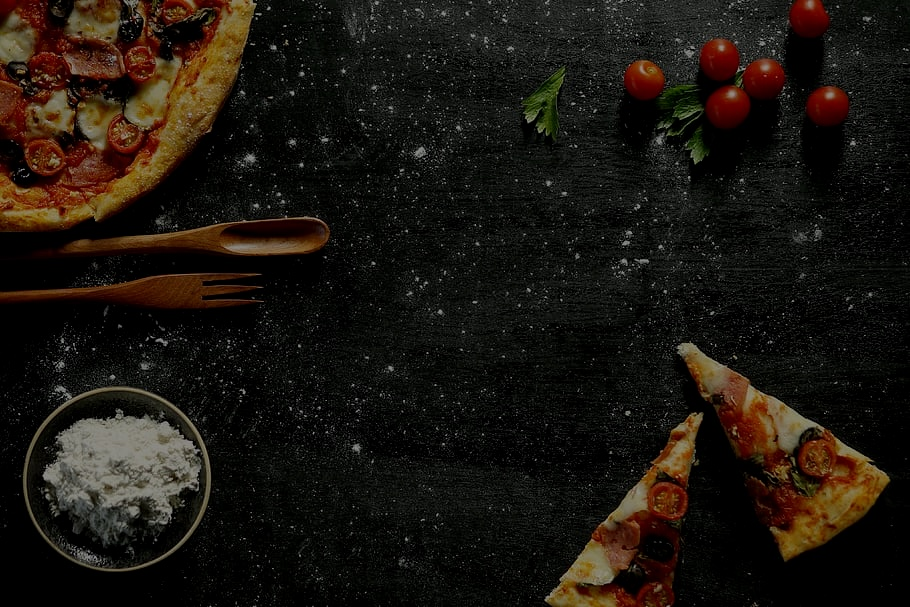
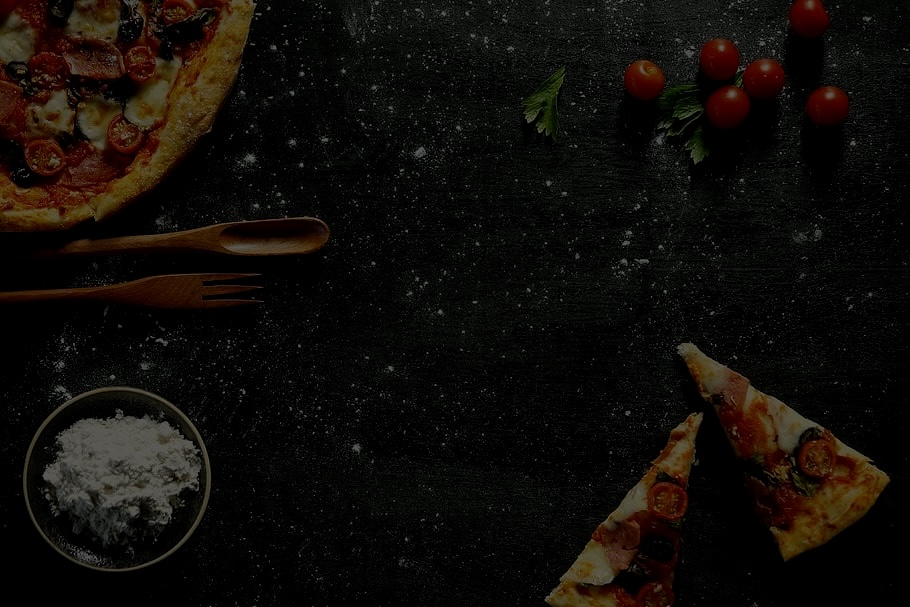
New backgrounds 2

diff --git a/src/routes/index.tsx b/src/routes/index.tsx
@@ -6,7 +6,8 @@ export const Route = createFileRoute('/')({
 
 function Home() {
   return (
-    <div className="bg-[url(/image/pizza.jpg)] bg-cover bg-no-repeat lg:bg-center bg-right min-h-screen flex flex-col items-center justify-center px-2">
+    // <div className="bg-[url(/image/pizza.jpg)] bg-cover bg-no-repeat lg:bg-center bg-right min-h-screen flex flex-col items-center justify-center px-2">
+    <div className="bg-[url(/image/pizza-bg.jpg)] bg-cover bg-no-repeat lg:bg-center bg-right min-h-screen flex flex-col items-center justify-center px-2">
         {/* <span className='text-7xl mb-6'>🍕</span> */}
         <h1 className="text-6xl font-bold text-white mb-4 text-center lh-[120%]">
            Willkommen bei Pizza App!

diff --git a/src/routes/__root.tsx b/src/routes/__root.tsx
@@ -72,7 +72,8 @@ function RootDocument({ children }: { children: React.ReactNode }) {
       <body className='body bg-gradient-to-br from-blue-900 to-black text-white'>
           <header></header>
 
-          <main className='bg-fixed bg-[url(/image/pizza-product.jpg)] bg-fill lg:bg-center bg-right'>
+          {/* <main className='bg-fixed bg-[url(/image/bg-5.webp)] bg-cover bg-no-repeat lg:bg-center bg-right'> */}
+          <main className='bg-fixed bg-[url(/image/pizza.jpg)] bg-cover bg-no-repeat lg:bg-center bg-right'>
             {children}
 
             <TanStackRouterDevtools position="bottom-right" />

diff --git a/src/styles/app.css b/src/styles/app.css
@@ -28,15 +28,15 @@
 }
 
 .page__title {
-  @apply text-5xl font-bold mb-3;
+  @apply text-5xl font-bold mb-3 text-center;
 }
 
 .page__subtitle {
-  @apply mb-4;
+  @apply mb-4 text-center;
 }
 
 .page__info {
-  @apply flex w-fit text-yellow-300 text-sm mb-4 ml-auto px-2 py-2 rounded-lg;
+  @apply flex w-fit text-yellow-500 text-lg mb-4 mx-auto px-2 py-2 rounded-lg text-center ;
 }
 
 .categories__wrapper {
